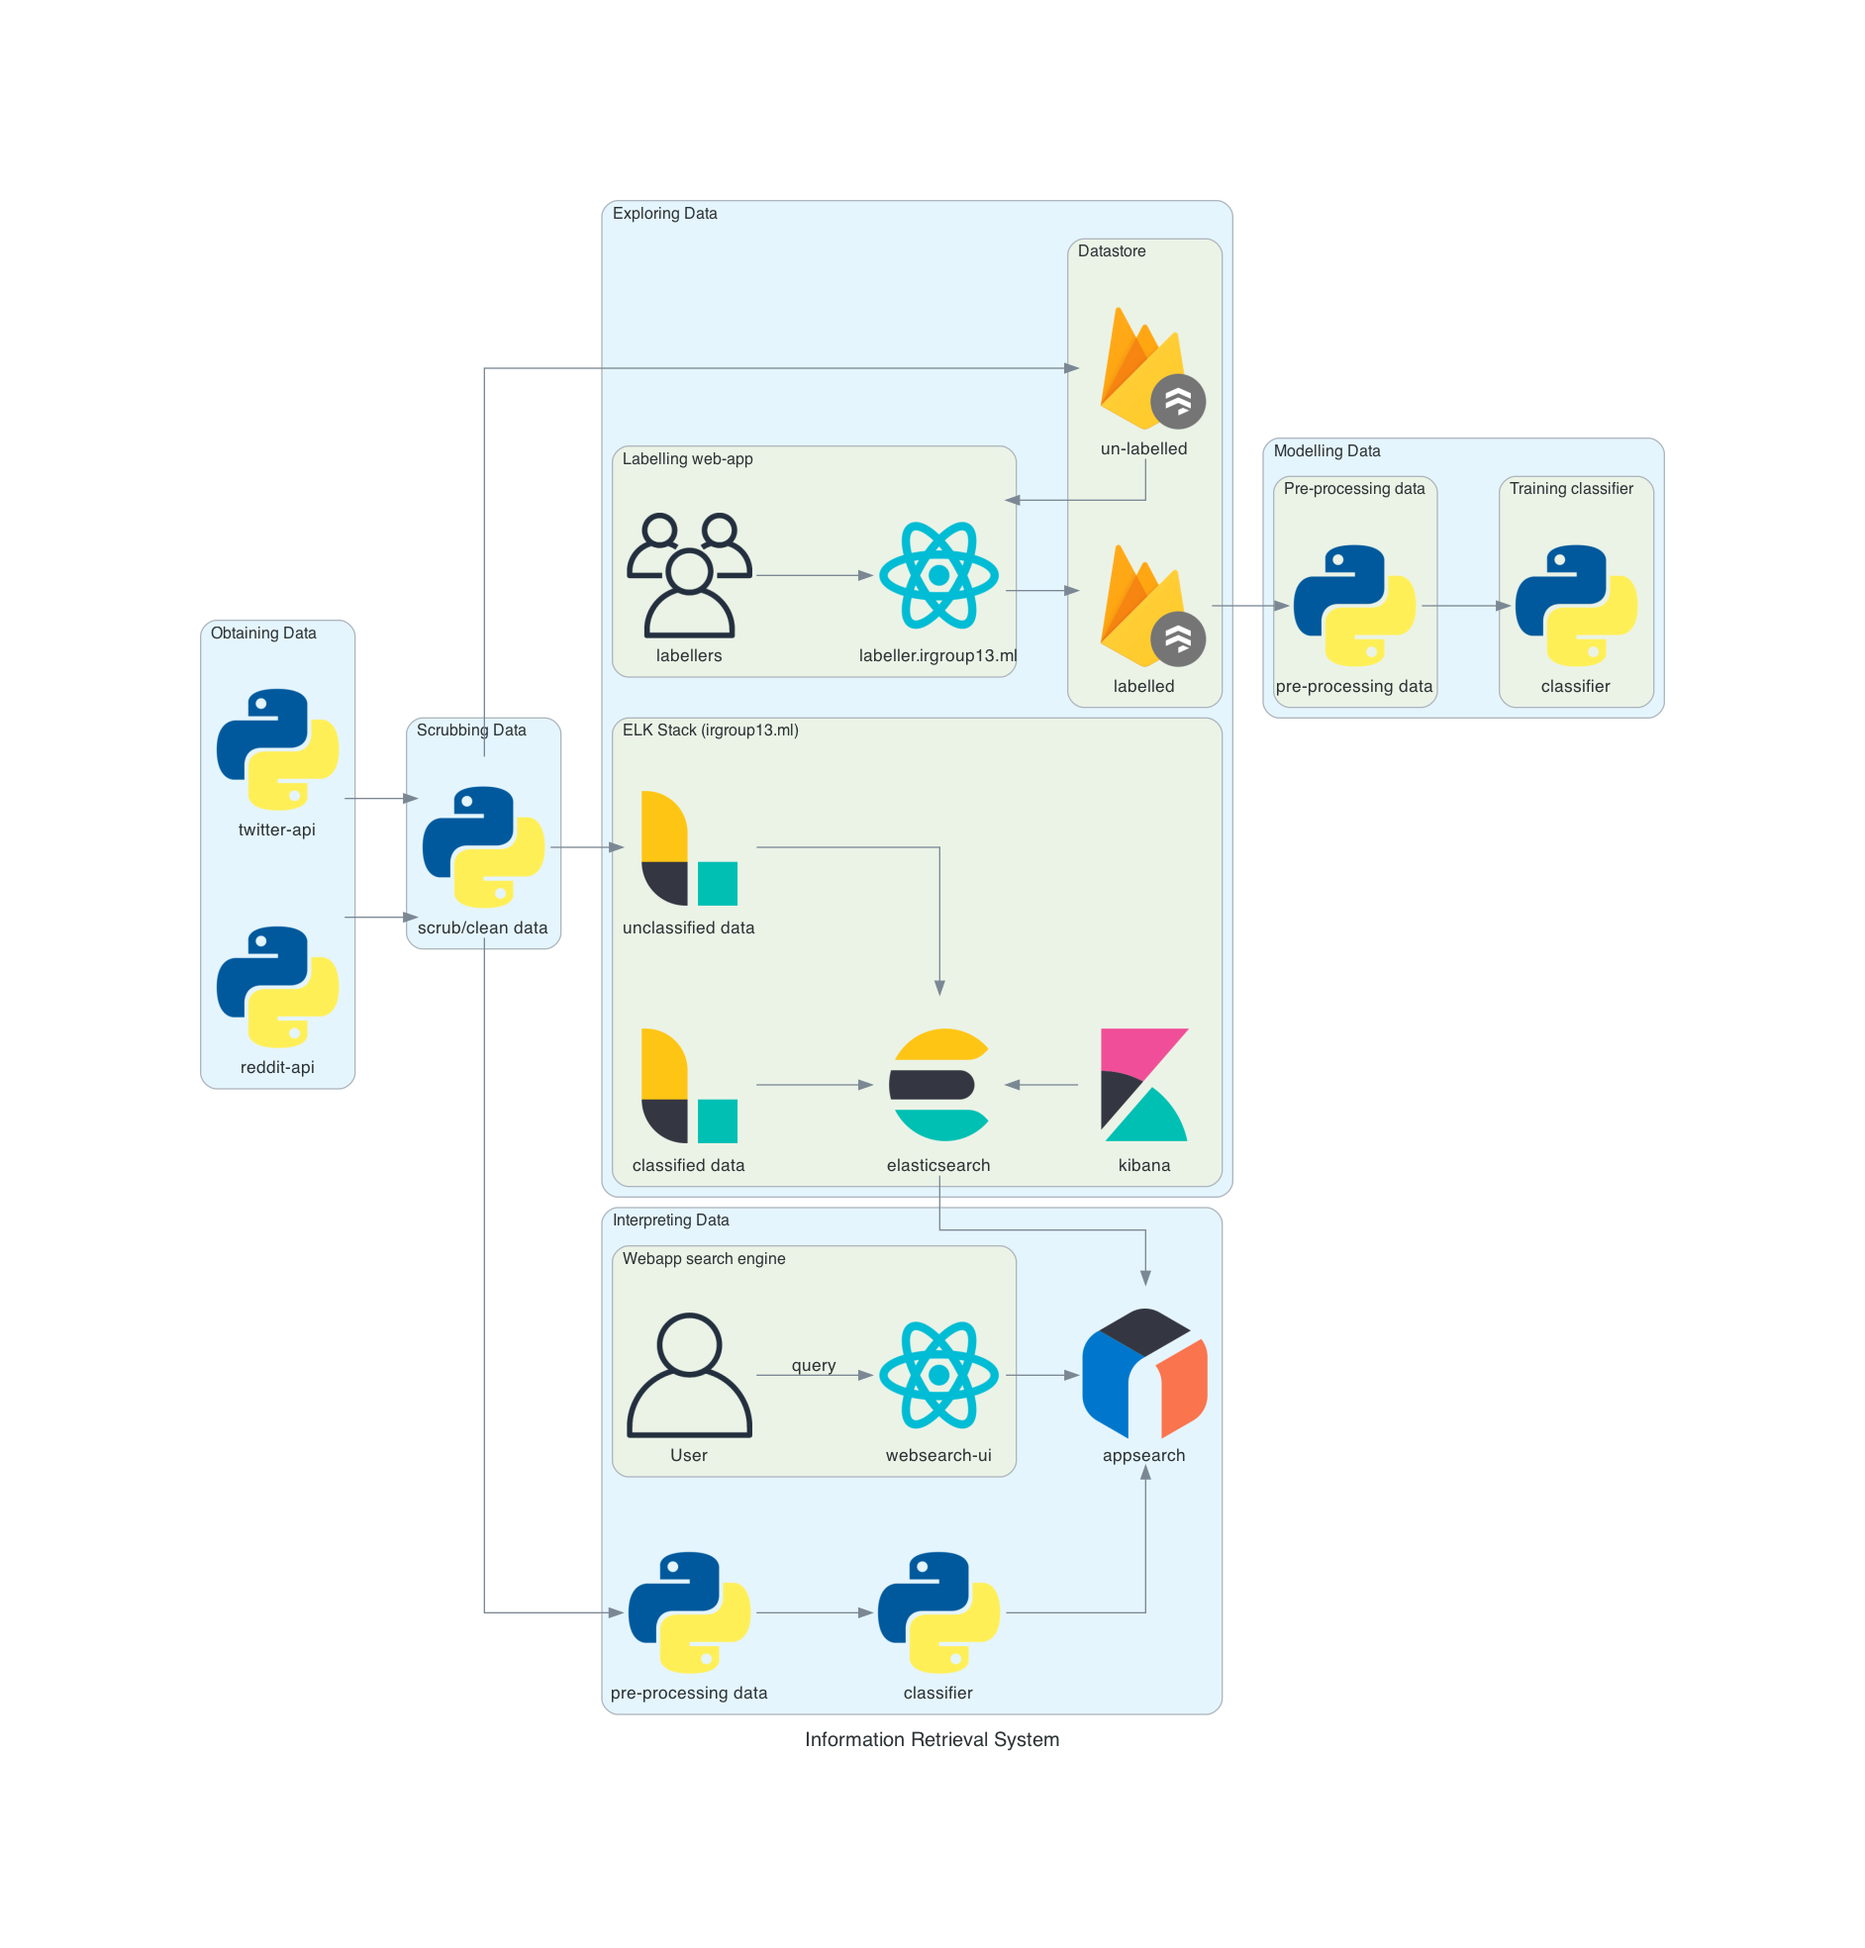
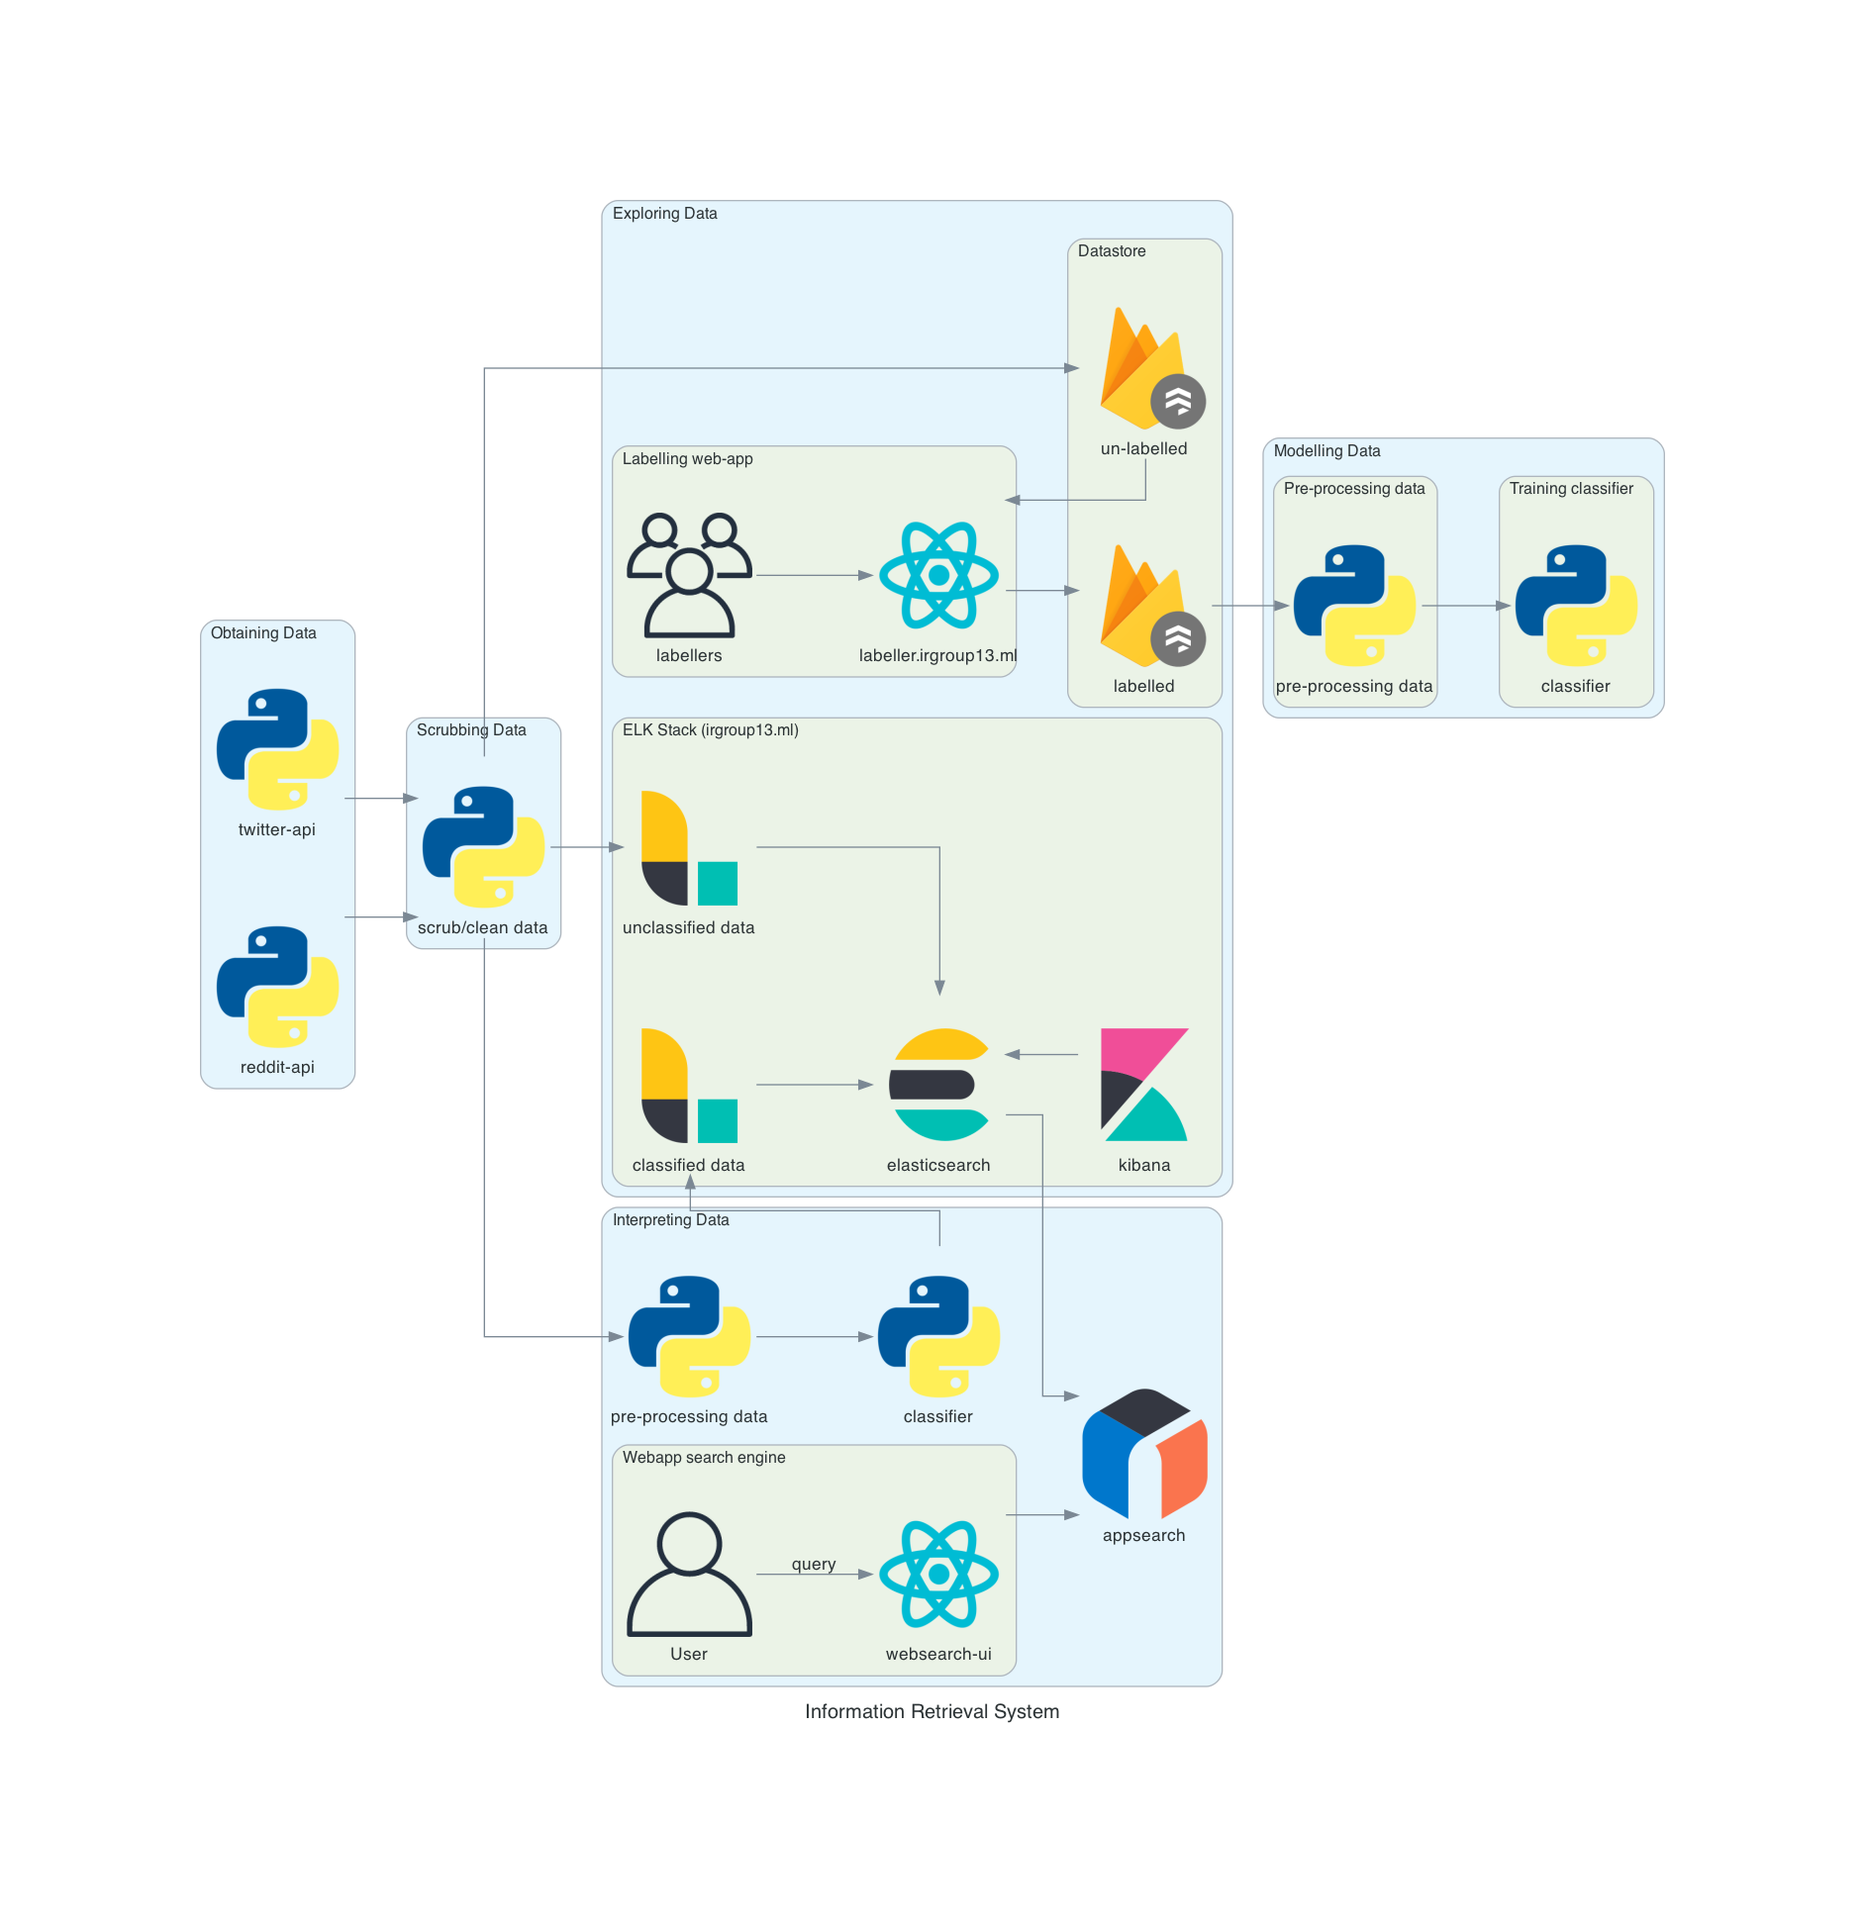
🔧 Update overall_diagram.py

diff --git a/diagrams/overall_diagram.py b/diagrams/overall_diagram.py
@@ -52,6 +52,6 @@ with Diagram('Information Retrieval System', show=True):
         scrub_data >> logstash_unclassified >> elasticsearch << kibana
         logstash_classified >> elasticsearch
         labelled_firestore >> pre_processing_data >> classifier
-        scrub_data >> pre_processing_data_interprete >> classifier_interprete >> appsearch
+        scrub_data >> pre_processing_data_interprete >> classifier_interprete >> logstash_classified
         query_user >> Edge(label='query') >> websearch_ui >> appsearch
         elasticsearch >> appsearch
